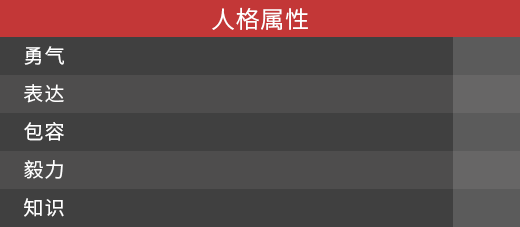
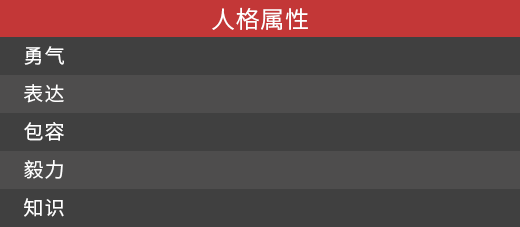
ui fix

Changed region(s): [[0.8615, 0.1542, 1.0, 1.0]]

diff --git a/core/src/com/rpsg/rpg/view/menu/StatusView.java b/core/src/com/rpsg/rpg/view/menu/StatusView.java
@@ -119,21 +119,16 @@ public class StatusView extends DefaultIView {
 		if(parent.current.lead){
 			Group group6=(Group) $.add(new Group()).setX(70).addAction(Actions.parallel(Actions.moveTo(70,y(1702),1f,Interpolation.pow4Out),Actions.fadeIn(0.4f))).setColor(1, 1, 1,0).appendTo(inner).getItem();
 			$.add(Res.get(Setting.GAME_RES_IMAGE_MENU_NEW_STATUS+"person.png")).appendTo(group6);
-			$.add(Res.get(Setting.UI_BASE_IMG)).setSize(350,24).setPosition(87, 159).appendTo(group6);
-			$.add(Res.get(Setting.UI_BASE_PRO)).setSize(0,18).setPosition(90, 162).appendTo(group6).setColor(Color.valueOf("717171")).addAction(Actions.delay(0.4f,Actions.sizeTo(((float)parent.current.prop.get("courage")/100f)*344, 18,0.6f,Interpolation.pow4Out)));
-			$.add(Res.get(Setting.UI_BASE_IMG)).setSize(350,24).setPosition(87, 121).appendTo(group6);
-			$.add(Res.get(Setting.UI_BASE_PRO)).setSize(0,18).setPosition(90, 124).appendTo(group6).setColor(Color.valueOf("717171")).addAction(Actions.delay(0.4f,Actions.sizeTo(((float)parent.current.prop.get("express")/100f)*344, 18,0.6f,Interpolation.pow4Out)));
-			$.add(Res.get(Setting.UI_BASE_IMG)).setSize(350,24).setPosition(87, 83).appendTo(group6);
-			$.add(Res.get(Setting.UI_BASE_PRO)).setSize(0,18).setPosition(90, 87).appendTo(group6).setColor(Color.valueOf("717171")).addAction(Actions.delay(0.4f,Actions.sizeTo(((float)parent.current.prop.get("respect")/100f)*344, 18,0.6f,Interpolation.pow4Out)));
-			$.add(Res.get(Setting.UI_BASE_IMG)).setSize(350,24).setPosition(87, 45).appendTo(group6);
-			$.add(Res.get(Setting.UI_BASE_PRO)).setSize(0,18).setPosition(90, 48).appendTo(group6).setColor(Color.valueOf("717171")).addAction(Actions.delay(0.4f,Actions.sizeTo(((float)parent.current.prop.get("perseverance")/100f)*344, 18,0.6f,Interpolation.pow4Out)));
-			$.add(Res.get(Setting.UI_BASE_IMG)).setSize(350,24).setPosition(87, 7).appendTo(group6);
-			$.add(Res.get(Setting.UI_BASE_PRO)).setSize(0,18).setPosition(90, 10).appendTo(group6).setColor(Color.valueOf("717171")).addAction(Actions.delay(0.4f,Actions.sizeTo(((float)parent.current.prop.get("knowledge")/100f)*344, 18,0.6f,Interpolation.pow4Out)));
-			$.add(new Label(parent.current.prop.get("courage")+"",22).align(479, 179).setPad(-8)).appendTo(group6);
-			$.add(new Label(parent.current.prop.get("express")+"",22).align(479, 141).setPad(-8)).appendTo(group6);
-			$.add(new Label(parent.current.prop.get("respect")+"",22).align(479, 103).setPad(-8)).appendTo(group6);
-			$.add(new Label(parent.current.prop.get("perseverance")+"",22).align(479, 65).setPad(-8)).appendTo(group6);
-			$.add(new Label(parent.current.prop.get("knowledge")+"",22).align(479, 27).setPad(-8)).appendTo(group6);
+			$.add(Res.get(Setting.UI_BASE_IMG)).setSize(420,24).setPosition(87, 159).appendTo(group6);
+			$.add(Res.get(Setting.UI_BASE_PRO)).setSize(0,18).setPosition(90, 162).appendTo(group6).setColor(Color.valueOf("717171")).addAction(Actions.delay(0.4f,Actions.sizeTo(((float)parent.current.prop.get("courage")/100f)*414, 18,0.6f,Interpolation.pow4Out)));
+			$.add(Res.get(Setting.UI_BASE_IMG)).setSize(420,24).setPosition(87, 121).appendTo(group6);
+			$.add(Res.get(Setting.UI_BASE_PRO)).setSize(0,18).setPosition(90, 124).appendTo(group6).setColor(Color.valueOf("717171")).addAction(Actions.delay(0.4f,Actions.sizeTo(((float)parent.current.prop.get("express")/100f)*414, 18,0.6f,Interpolation.pow4Out)));
+			$.add(Res.get(Setting.UI_BASE_IMG)).setSize(420,24).setPosition(87, 83).appendTo(group6);
+			$.add(Res.get(Setting.UI_BASE_PRO)).setSize(0,18).setPosition(90, 87).appendTo(group6).setColor(Color.valueOf("717171")).addAction(Actions.delay(0.4f,Actions.sizeTo(((float)parent.current.prop.get("respect")/100f)*414, 18,0.6f,Interpolation.pow4Out)));
+			$.add(Res.get(Setting.UI_BASE_IMG)).setSize(420,24).setPosition(87, 45).appendTo(group6);
+			$.add(Res.get(Setting.UI_BASE_PRO)).setSize(0,18).setPosition(90, 48).appendTo(group6).setColor(Color.valueOf("717171")).addAction(Actions.delay(0.4f,Actions.sizeTo(((float)parent.current.prop.get("perseverance")/100f)*414, 18,0.6f,Interpolation.pow4Out)));
+			$.add(Res.get(Setting.UI_BASE_IMG)).setSize(420,24).setPosition(87, 7).appendTo(group6);
+			$.add(Res.get(Setting.UI_BASE_PRO)).setSize(0,18).setPosition(90, 10).appendTo(group6).setColor(Color.valueOf("717171")).addAction(Actions.delay(0.4f,Actions.sizeTo(((float)parent.current.prop.get("knowledge")/100f)*414, 18,0.6f,Interpolation.pow4Out)));
 			final Image pe_help=(Image) $.add(Res.get(Setting.GAME_RES_IMAGE_MENU_NEW_STATUS+"person_help.png")).appendTo(group6).setColor(1,1,1,0).getItem();//resistance help button
 			$.add(new CheckBox("", cstyle, 1)).appendTo(group6).setPosition(392,190).run(new GdxQueryRunnable() {public void run(final GdxQuery self) {self.onClick(new Runnable() {public void run() {
 				pe_help.addAction(self.isChecked()?Actions.fadeIn(0.3f):Actions.fadeOut(0.3f));
